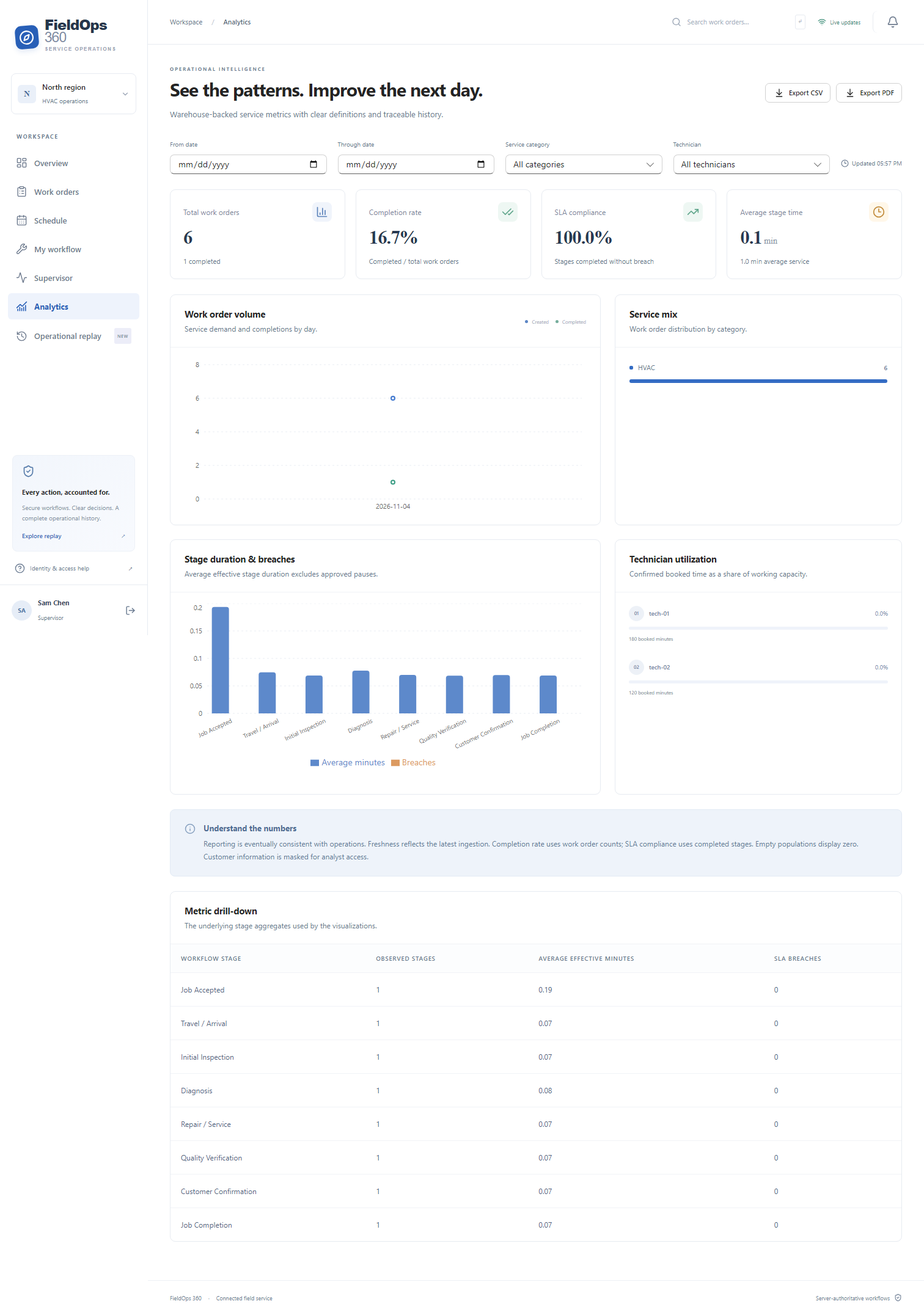
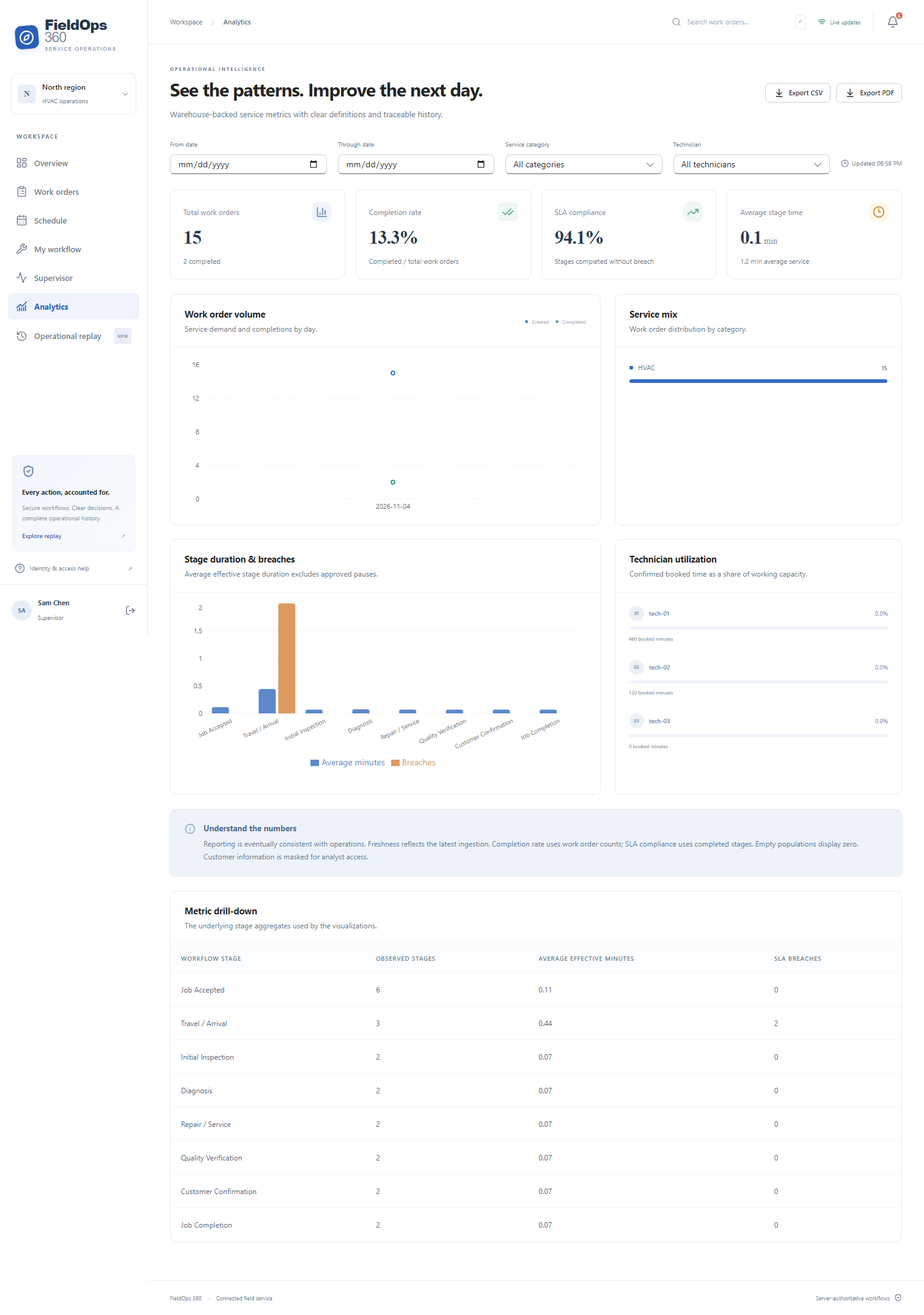
Refactor code structure for improved readability and maintainability

diff --git a/scripts/verify-database-permissions.py b/scripts/verify-database-permissions.py
@@ -43,6 +43,8 @@ def main():
         AND NOT has_table_privilege(current_user,'warehouse.ingestion_ledger','UPDATE')
         AND NOT has_table_privilege(current_user,'warehouse.staging_event','DELETE')
         AND NOT has_table_privilege(current_user,'warehouse.schema_migration','INSERT')
+        AND has_table_privilege(current_user,'analytics.v_team_summary','SELECT')
+        AND NOT has_table_privilege(current_user,'analytics.v_team_summary','INSERT')
         AND NOT has_schema_privilege(current_user,'warehouse','CREATE')""")
     sql("fieldops_warehouse", "fieldops_warehouse_reader", """SELECT
         has_table_privilege(current_user,'warehouse.fact_work_order','SELECT')

diff --git a/docs/case-study/DELIVERY_REPORT.md b/docs/case-study/DELIVERY_REPORT.md
@@ -1,0 +1,124 @@
+# FieldOps 360 delivery report
+
+Evidence date: November 4, 2026. This is a working local engineering system with verified operational paths, not a claim that every master acceptance item is complete. Native APK/emulator acceptance, production deployment controls, and the remaining limits below stay open. All demonstration data is synthetic.
+
+## 1. Project overview
+
+FieldOps 360 connects service requests, qualified dispatch, guided technician work, supervisor intervention, historical analytics, and incident investigation. It combines six .NET 10 LTS services, React web, Expo mobile, PostgreSQL, RabbitMQ/MassTransit, Keycloak, and Python intelligence. [Architecture](../architecture/overview.md) · [current acceptance state](../IMPLEMENTATION_STATUS.md).
+
+## 2. Business problem and demonstrated outcome
+
+The fictional regional HVAC operation needs defensible assignments, consistent procedures, timely escalation, and an explainable account of service delays. Implemented paths prevent confirmed booking overlap, enforce ordered forms and persistent SLA state, retain supervisor reasons, and reconstruct recorded outcomes. No production deployment, employee productivity gain, or real-world savings is claimed.
+
+## 3. Architecture summary
+
+Web and mobile enter through the authenticated YARP gateway; each service independently validates identity and resource scope. Critical writes are transactional within the owning PostgreSQL database. Outboxes publish integration events; idempotent consumers update notifications, replay, and a separate warehouse. Reporting hosts the replay processor and reads the warehouse through a restricted connection. [C4 and ownership](../architecture/overview.md) · [deployment/data diagrams](../diagrams/data-and-deployment.md).
+
+## 4. Implemented business microservices
+
+| Service       | Implemented responsibility                                                                                                |
+| ------------- | ------------------------------------------------------------------------------------------------------------------------- |
+| Work orders   | Validated creation/updates, lifecycle projection, customer references, version conflicts, integration events.             |
+| Technicians   | Team-owned profiles, skills/certifications, working hours, availability, time-off exceptions.                             |
+| Scheduling    | Scoped candidate validation, baseline/OR-Tools advice, booking/rescheduling/cancellation, PostgreSQL overlap protection.  |
+| Workflows     | Versioned HVAC forms, authoritative stage state, submissions/receipts, SLA sweeps, assistance and supervisor decisions.   |
+| Notifications | Deduplicated warnings/escalations, acknowledgments, persisted history, team/user SignalR updates.                         |
+| Reporting     | Authorized warehouse metrics/exports, immutable replay ingestion, projections, incident summaries and trace availability. |
+
+The six hosts share infrastructure code while owning separate databases and restricted runtime identities. [Service/API guide](../../services/README.md) · [host implementation](../../building-blocks/FieldOps.ServiceHost/Bootstrap.cs).
+
+## 5. Web and mobile capabilities
+
+The web app implements role-aware navigation, order management, dispatch, eight-stage forms, supervisor controls, analytics, notifications, and replay playback/filtering/exports. [Web guide](../../apps/web/README.md) · [actual UI walkthrough](../UI_WALKTHROUGH.md).
+The Expo SDK 58 technician app implements PKCE/SecureStore integration, jobs/schedule/details, conditional forms, countdowns, assistance, account-isolated drafts and a durable synchronization queue with backoff, stable idempotency and explicit conflicts. Typecheck, 12 tests, compatibility checks, and Android Hermes export passed. Native APK/emulator OAuth, secure-storage and offline acceptance remain pending; iOS execution requires macOS. [Mobile guide](../../apps/technician-mobile/README.md).
+
+## 6. Workflow and SLA design
+
+The default pipeline is Accepted → Travel/Arrival → Inspection → Diagnosis → Repair/Service → Quality Verification → Customer Confirmation → Completion. Immutable JSON template v1 supplies backend-validated allowlists and conditional fields; each instance retains its version. Acceptance cannot silently advance a reassignment request. Expected versions and idempotency receipts protect submissions. [Template](../../building-blocks/FieldOps.Core/WorkflowTemplates/hvac-v1.json) · [workflow rules](../../building-blocks/FieldOps.Core/WorkflowEngine.cs).
+Normal deadlines are 30 minutes, with persisted 20/25/30-minute warning/critical/breach milestones. Server UTC time is authoritative; approved pauses extend effective duration while preserving earlier breach evidence. Quartz sweeps recover after restart. The development-only 30-second demonstration verified deadline recovery, retry, breach, acknowledgment, pause/resume, advisory review and completion. [Policy and state design](../workflows/design.md).
+
+## 7. Security implementation and evidence boundary
+
+Keycloak public clients use authorization code/S256 PKCE; password grant is disabled. Signed audience/role/team claims, backend policies and resource checks restrict assigned technician work, supervisor teams, analyst aggregates and replay access. Browser tokens are in memory; mobile tokens use platform secure storage. Client timestamps and role headers do not confer authority.
+Migration owners are separate from six runtime app identities; replay evidence/delivery tables permit runtime SELECT/INSERT, and warehouse writer/reader grants differ. Live permission and foreign-resource tests passed. Gitleaks, scoped Semgrep and Trivy checks were clean in their documented scopes. ZAP's pre-login passive scan recorded zero failures and four warning categories; it did not authenticate or establish ASVS compliance. [Threat model/RBAC](../security/threat-model.md) · [verification scope/findings](../testing/VERIFICATION.md).
+
+## 8. Intelligent dispatch optimization
+
+Operational advice checks skills, certification, local working hours, availability, time off and confirmed bookings. The Scheduling Service calls the private OR-Tools adapter with actual scoped inputs and independently validates its answer; it never labels a failed optimizer as a successful baseline fallback. Recommendations do not reserve capacity. Real operational travel is explicitly null because geocoded routing data is unavailable. [Adapter](../../building-blocks/FieldOps.ServiceHost/SchedulingRecommendations.cs).
+On one reproducible synthetic six-technician/22-job dataset, both strategies assigned all 22 jobs. Baseline versus optimized depot-travel proxy was 647 versus 619 minutes; workload SD was 47.17 versus 47.96 minutes; measured runtime was 6.38 versus 3048.46 ms. The bounded solver returned FEASIBLE, not proven optimal. This is a measured tradeoff on one dataset, not a general performance-improvement claim. [Evaluation](../../intelligence/evaluation/REPORT.md).
+
+## 9. Predictive SLA model and evaluation
+
+A calibrated scikit-learn logistic model is compared with a rule baseline. The first chronological 60% train, the next 20% calibrate, and the last 20% evaluate; one observation per stage prevents cross-partition stage leakage. Identifiers and outcome-derived features are excluded. [Features/training source](../../intelligence/fieldops_intelligence/prediction.py).
+Measured synthetic logistic results: precision 0.7739, recall 0.7350, F1 0.7540, ROC-AUC 0.8248, PR-AUC 0.8373, Brier 0.1708 and false-alert rate 0.2424. Rule F1 was 0.4424 with false-alert rate 0.1703. Median/p95 single-observation latency was 19.819/35.241 ms excluding network transit. Higher synthetic detection therefore also produced more false alerts. [Report and calibration evidence](../../intelligence/evaluation/REPORT.md).
+Advice shows probability, factors, timestamp, model version and proposed intervention; unavailable operational features are explicit user-confirmed assumptions. Supervisor accept/dismiss reasons and submitted provenance are audited. Predictions do not automatically reassign work, penalize staff, or establish real-world predictive accuracy.
+
+## 10. Operational Replay architecture and demonstration
+
+Operational transaction → outbox → RabbitMQ → reporting consumer → immutable original event text/hash and separate delivery observations → replay projection → investigation API → console. Causation/source sequence precede timestamp tie-breaking; missing evidence and independent-order uncertainty remain visible. Playback reconstructs state without executing business commands. [Replay model](../../replay/event-store/README.md) · [ordering rules](../../building-blocks/FieldOps.Core/ReplayEngine.cs).
+The completed resilience scenario retained 40 distinct audit events, one breached Travel/Arrival stage, two stage-control interventions and four supervisor actions/advisory decisions, with final observed outcome Resolved. The incident distinguished the original deadline, pause-adjusted deadline, actual completion and effective delay; no root cause was invented. This count includes separately typed diagnostic evidence and must not be described as 40 independent business actions.
+The terminal-fault demonstration independently found the original Notifications message in its RabbitMQ error queue, requeued inspected messages, and verified immutable MessageProcessingFailed/DeadLetterRecorded diagnostics. Retry totals remain unknown when the fault contract does not establish them. A successful Reporting delivery is not evidence that the failed Notifications consumer recovered. Local evidence: `artifacts/demo-resilience.json` and `artifacts/demo-terminal-fault.json`; these generated files are ignored, not shipped credentials or production records.
+The authenticated trace-availability endpoint checks work-order/team access and recorded trace association before querying internal Jaeger, returning only availability/reason/count metadata. An authorized missing trace and an unreachable provider remain distinct; no public trace link appears before confirmation. A retained business trace with 11 spans was verified. CSV/PDF exports preserve relevant recorded evidence and redact customer details.
+
+## 11. Data warehouse and analytics
+
+An independent worker stages redacted events into seven dimensions and five fact grains: order, stage instance, booking, breach event and supervisor intervention. Three versioned migrations, event/hash deduplication, source-local sequence guards, late-event enrichment and null unknown durations protect historical meaning. Reporting uses team-scoped, parameterized queries and known-creation cohorts. [Warehouse design, lineage and recovery](../../analytics/README.md).
+The dashboard exposes volume/completion/SLA/stage/category/utilization aggregates, freshness, drill-down and CSV/PDF exports. Utilization clips booking and local-shift intervals with timezone/DST rules; insufficient boundaries/metadata remain null. A supplied-original-event archive can be reconciled and applied transactionally; automatic archive acquisition and independent source-completeness manifests remain operational work. Live quality checks found zero defects; 26 PostgreSQL cases passed.
+
+## 12. Design patterns and tradeoffs
+
+DI and options keep dependencies/configuration explicit; the state machine centralizes workflow legality; strategy separates baseline and solver advice; OIDC/HTTP adapters isolate external boundaries. Transactional outbox plus idempotent inbox provides at-least-once delivery without pretending it is exactly once. CQRS replay and dimensional projections permit investigation/reporting without cross-database operational joins.
+Shared host infrastructure reduces duplication but couples infrastructure upgrades. Eventual read models can lag committed commands; bounded optimization may be feasible without optimality. In-memory browser sessions favor token containment over reload persistence. Type-1 dimensions limit historical staff/capacity interpretation. [Pattern locations, alternatives and tradeoffs](../architecture/patterns.md) · [ADRs](../INDEX.md).
+
+## 13. Actual test and scan results
+
+| Executed check              | Result                                                                                                                                              |
+| --------------------------- | --------------------------------------------------------------------------------------------------------------------------------------------------- |
+| Backend / gateway           | 53/53 backend tests; six hosts build with zero warnings/errors; 7/7 gateway process checks.                                                         |
+| Live HTTP                   | 3/3 lifecycle tests, 3/3 resource-authorization cases, 1/1 real optimizer-adapter contract.                                                         |
+| Web                         | Production build, 23/23 unit/component tests, 10/10 desktop/mobile browser checks with no skips.                                                    |
+| Replay layout               | Five Chromium viewport checks at 1512/1280/1024/760/390; long option text no longer expands the document.                                           |
+| Mobile / intelligence       | 12/12 mobile tests plus typecheck/compatibility/Hermes export; 18/18 intelligence tests.                                                            |
+| Warehouse / bootstrap       | 26/26 PostgreSQL cases; zero current quality defects; 5/5 bootstrap checks; live runtime grants verified.                                           |
+| Reliability / observability | Restart/retry/breach/broker recovery passed; terminal-fault/error-queue evidence passed; six healthy metrics targets and an 11-span trace verified. |
+
+These suites overlap; their counts are not a fictional independent coverage percentage. Full commands, scan scope and remaining ZAP warnings are in [executed verification](../testing/VERIFICATION.md). Native APK/emulator tests, authenticated penetration testing, load benchmarks and a complete WCAG audit are not counted as passed.
+
+## 14. CI/CD and deployment instructions
+
+From the root: `python scripts/init-local.py`, `docker compose up -d --build`, `python scripts/wait-local.py`, then `python scripts/verify-database-permissions.py`. Open `http://localhost:8088`; enable monitoring with `docker compose --profile monitoring up -d`. Existing volumes require non-destructive runtime/identity reconciliation; do not delete volumes to conceal migration problems. [Deployment/recovery runbooks](../operations/LOCAL_DEPLOYMENT.md).
+GitHub Actions defines backend, web, mobile, intelligence, integrated Compose/browser, security and container validation paths, with pinned action references and retained test artifacts. Local command paths were exercised; no remote workflow run, external deployment or push is claimed. [Workflow](../../.github/workflows/validate.yml).
+
+## 15. Architecture documentation index
+
+Use the [documentation index](../INDEX.md) for C4 context/container/component views, service boundaries, ERD/star-schema/deployment/event/data/trust diagrams, all 22 interaction sequences, requirements, API/event conventions, RBAC, workflow/SLA/forms, mobile/offline design, intelligence evaluation, replay, tests and runbooks. [Requirements](../architecture/REQUIREMENTS.md) distinguishes implementation from remaining acceptance work; the UI screenshots are actual synthetic-runtime captures, not substitute test results.
+
+## 16. Incremental Git history
+
+Reviewed on `main` at checkpoint `4d75b9a` before this final documentation addition. Verified earlier milestones include `56d2e56` foundation, `6e584cb` gateway, `8fb96c1` domain/SLA/replay, `6257006` persistent services, `6350c77` intelligence and `071b003` mobile, followed by preserved integration/security/template checkpoints. This is real incremental history, not fabricated commits. Final working-tree reconciliation remains a separate delivery check; use `git log --oneline` and `git status` for later checkpoints. No commit or push is performed by this report.
+
+## 17. Reproducible demonstration
+
+Start the healthy normal stack and monitoring profile, then run the ordinary live lifecycle/authorization/optimizer commands in [verification](../testing/VERIFICATION.md). For the controlled local resilience scenario:
+
+```powershell
+docker compose -f docker-compose.yml -f infrastructure/docker/compose.demo.yml up -d workflows reporting
+python scripts/demo-resilience.py
+python scripts/demo-terminal-fault.py
+```
+
+The scripts create labeled synthetic records, preserve immutable evidence, and restore ordinary service configuration in `finally`. The second independently verifies/requeues the inspected error-queue message. Investigate the resulting order in Replay, compare its timeline/summary/export and trace availability, then review warehouse freshness. See [full demonstration and operational limits](../../services/OPERATIONS_DEMONSTRATION.md); never apply failure injection or accelerated thresholds outside Development.
+
+## 18. Known limitations and acceptance still open
+
+- Native Android APK/emulator acceptance is pending; no signed mobile release, iOS execution, or native OAuth/offline acceptance is claimed from a Metro export.
+- Cross-service profile/time-off edits and cancellation racing an unprojected booking are not distributed serializable transactions; cancel a confirmed booking before its order. SignalR is best effort; persisted history is authoritative.
+- Only immutable HVAC template v1 is shipped; runtime template authoring is absent. Not every proposed analytic chart/filter or administrative screen is implemented. Mobile AsyncStorage drafts are not application-encrypted.
+- Operational routing/travel, multi-day route optimization, SCD2 staff/hour history and time-off/weekend capacity exclusions are absent. Advisory snapshots are submitted evidence, not cryptographically verified model-result receipts.
+- Generic terminal failures are recorded, but every intermediate consumer attempt and automatic poison-message repair are not implemented. Jaeger retention is bounded/in-memory; a trace identifier is not a retention guarantee.
+- Production TLS, MFA/device policy, secret rotation, approved retention/backups, restore drills, full accessibility assessment and authenticated security review need deployment-specific completion. Remote CI and external deployment remain unexecuted.
+
+## 19. Portfolio case study
+
+The engineering result is an inspectable chain from authenticated service demand to conflict-protected dispatch, ordered field execution, advisory intervention and preserved incident evidence. Its strongest demonstration is the same synthetic incident viewed as authoritative workflow state, delayed/retried messaging, a warehouse fact, a factual export and a correlated trace. Measured solver/model results and explicit unknowns make the tradeoffs reviewable.
+The next acceptance priorities are native-device validation, final clean-repository/deployment reconciliation, production hardening and validated operational retention/restore practice. The portfolio should present the executed evidence and these boundaries together, rather than equating a broad feature list with production readiness.

diff --git a/services/OPERATIONS_DEMONSTRATION.md b/services/OPERATIONS_DEMONSTRATION.md
@@ -19,6 +19,8 @@ Tests using Testcontainers require access to the Docker engine and test runner I
 
 ## Accelerated SLA and one controlled consumer failure
 
+Executed locally on 2026-11-04: `scripts/demo-resilience.py` passed persisted-deadline recovery, controlled Reporting warning failure/retry, breach escalation/acknowledgment, pause/resume preserving breach, advisory decision, eight-stage completion, immutable replay and broker-outage outbox recovery. Its 40-event synthetic incident is retained locally; machine-readable evidence is ignored under `artifacts/demo-resilience.json`. Run the checked-in `compose.demo.yml` override and script using the root README commands. The manual flow below explains its observations.
+
 Create a local Compose override file, for example `infrastructure/docker/compose.demo.local.yml`, containing:
 
 ```yaml
@@ -73,6 +75,10 @@ Inspect persisted notification history and the event timeline after reconnect. C
 If a consumer still fails after MassTransit's configured retry intervals (1, 3 and 10 seconds), inspect its `<endpoint>_error` queue. Preserve the message ID, fault metadata and original body. Reporting's separate fault monitor appends `MessageProcessingFailed.v1` and `DeadLetterRecorded.v1` diagnostic evidence without duplicating the original business action. It records sanitized exception type names and the failed consumer when recognized, not raw exception messages or stack traces. Terminal retry counts remain unknown when not established by the fault contract. Automatic dead-letter repair and a generalized record of every intermediate failure across all consumers are not implemented.
 
 To exercise retry exhaustion locally, add `Demo__AlwaysFailConsumer: "true"` alongside `Demo__EnableConsumerFailure: "true"` and one selected `Demo__FailEventType` on **one** business consumer. For example, setting it on Notifications for `AssistanceRequested.v1` tests a consumer failure while Reporting can still ingest the original assistance event. Create a new assistance request; wait for retries to exhaust, then check both the error queue and Replay's terminal diagnostics. Remove the failure override afterward. The monitor has its own queue and is not disabled by the Operational consumer's injected failure. The permanent-failure configuration is rejected outside Development.
+
+`python scripts/demo-terminal-fault.py` automates that second local scenario and restores ordinary Notifications settings in `finally`. It passed on 2026-11-04, independently verifying the original event in `fieldops-notifications-events_error` through RabbitMQ management and requeuing the inspected message. It leaves diagnostic evidence and reports unknown retry totals as unknown. The script never purges/ack-deletes the error queue. Run it only against this local synthetic environment.
+
+The live browser-side check `node scripts/check-live-notifications.mjs` from `apps/web` passed a real supervisor WebSocket notice through the served web/gateway, matched its persisted notification ID, and checked analyst/anonymous hub denial. It creates its own labeled synthetic assistance workflow and does not test background mobile push delivery.
 
 ## Trace interpretation
 

diff --git a/docs/architecture/contracts.md b/docs/architecture/contracts.md
@@ -14,6 +14,7 @@ Gateway prefix `/api`; every business route requires a signed `fieldops-api` acc
 | POST `/bookings/{id}/cancel` | Dispatch | `{expectedVersion,reason}` |
 | POST `/scheduling/recommendations` | Dispatch | `{workOrderId,startUtc,durationMinutes,strategy}`; explanations and feasible staff |
 | GET `/workflows/templates/default` | Operational | Version, stage names and conditional option allowlists |
+| GET `/workflows/templates/{version}` | Operational | Immutable configuration pinned by an existing workflow; unknown version returns 404 |
 | GET/POST `/workflows` | Operational / execute | Filter by `workOrderId`; start `{workOrderId}` after booking validation |
 | POST `/workflows/{id}/submit` | Execute | `{expectedVersion,idempotencyKey,answers,clientOccurredAtUtc?,offline?}` |
 | POST `/workflows/{id}/pause`, `/resume`, `/override` | Supervise | `{expectedVersion,reason,targetStageIndex?}` |
@@ -24,6 +25,7 @@ Gateway prefix `/api`; every business route requires a signed `fieldops-api` acc
 | GET `/reports/summary`, `/export.csv`, `/export.pdf` | Report | Warehouse filters: `from`, `to`, `technicianId`, `serviceCategory`, `priority` |
 | GET `/replay/{workOrderId}` | Replay | Optional `eventType`, `service`, `actor`, `correlationId`, `traceId`, `from`, `to` |
 | GET `/replay/{id}/export.csv`, `/export.pdf` | Replay | Redacted factual incident evidence and trace metadata |
+| GET `/replay/{id}/traces/{traceId}/availability` | Replay | Requires trace membership in the scoped order; retained/not retained/unreachable status and aggregate span count |
 | POST `/replay/projections/rebuild` | Administrator | Recover derived replay state from immutable events |
 | POST `/intelligence/predict`, `/optimize` | Authorized dispatch/supervision | See `intelligence/README.md`; advisory only |
 

diff --git a/docs/testing/VERIFICATION.md b/docs/testing/VERIFICATION.md
@@ -21,8 +21,10 @@ Local evidence date: 2026-11-04. Counts are separate suites with overlapping sce
 | Intelligence | 18/18 | Chronological dataset/model and independent solver constraints; measured evaluation linked below |
 | Observability | Six healthy targets; retained business trace with 11 spans | Includes authorized replay trace-availability check; trace retention is bounded/in-memory |
 | Accelerated resilience demo | Passed | Persisted deadline across restart; warning failure/retry; breach/intervention; completed immutable replay; broker-outage recovery |
+| Terminal consumer failure | Passed | Notifications retry exhaustion; original message independently found in its RabbitMQ error queue and requeued; separate sanitized immutable Replay diagnostics |
+| Live SignalR | Passed | Actual WebSocket through served web → gateway; supervisor notice matches persisted history; analyst/anonymous hub requests denied |
 
-Native Android APK/emulator acceptance and terminal-fault/error-queue demonstration are being finalized; see implementation status for latest outcomes. Do not infer native OAuth success from Metro export or code tests.
+Native Android APK/emulator acceptance is being finalized; see implementation status for latest outcomes. Do not infer native OAuth success from Metro export or code tests.
 
 ## Repeat source and service checks
 
